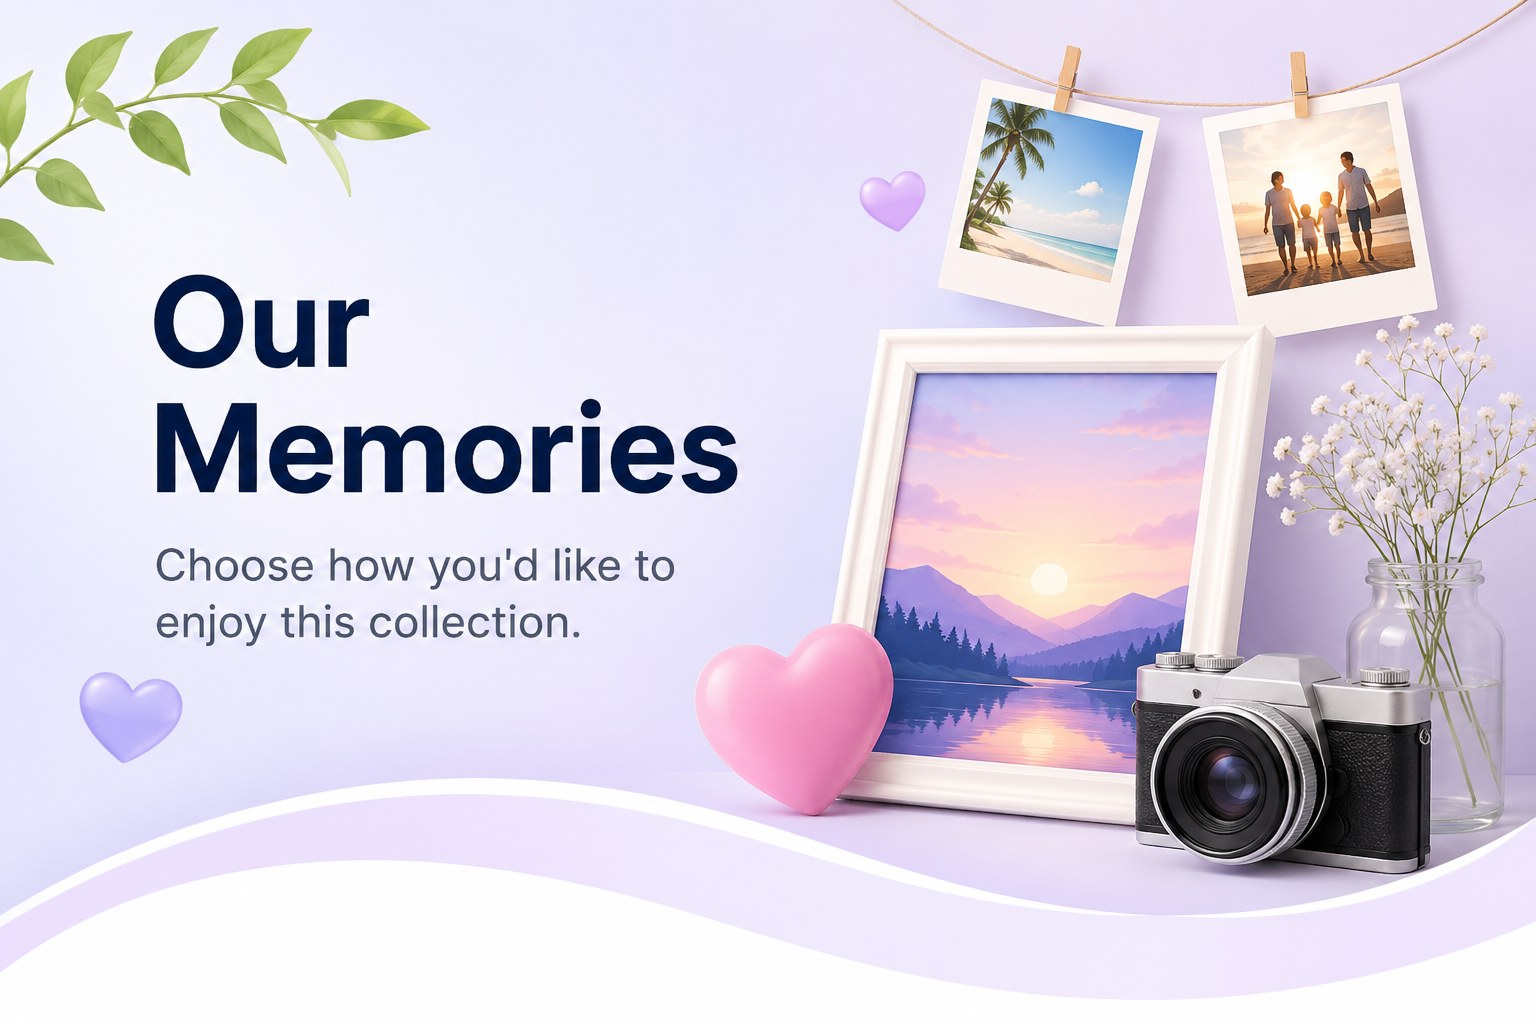
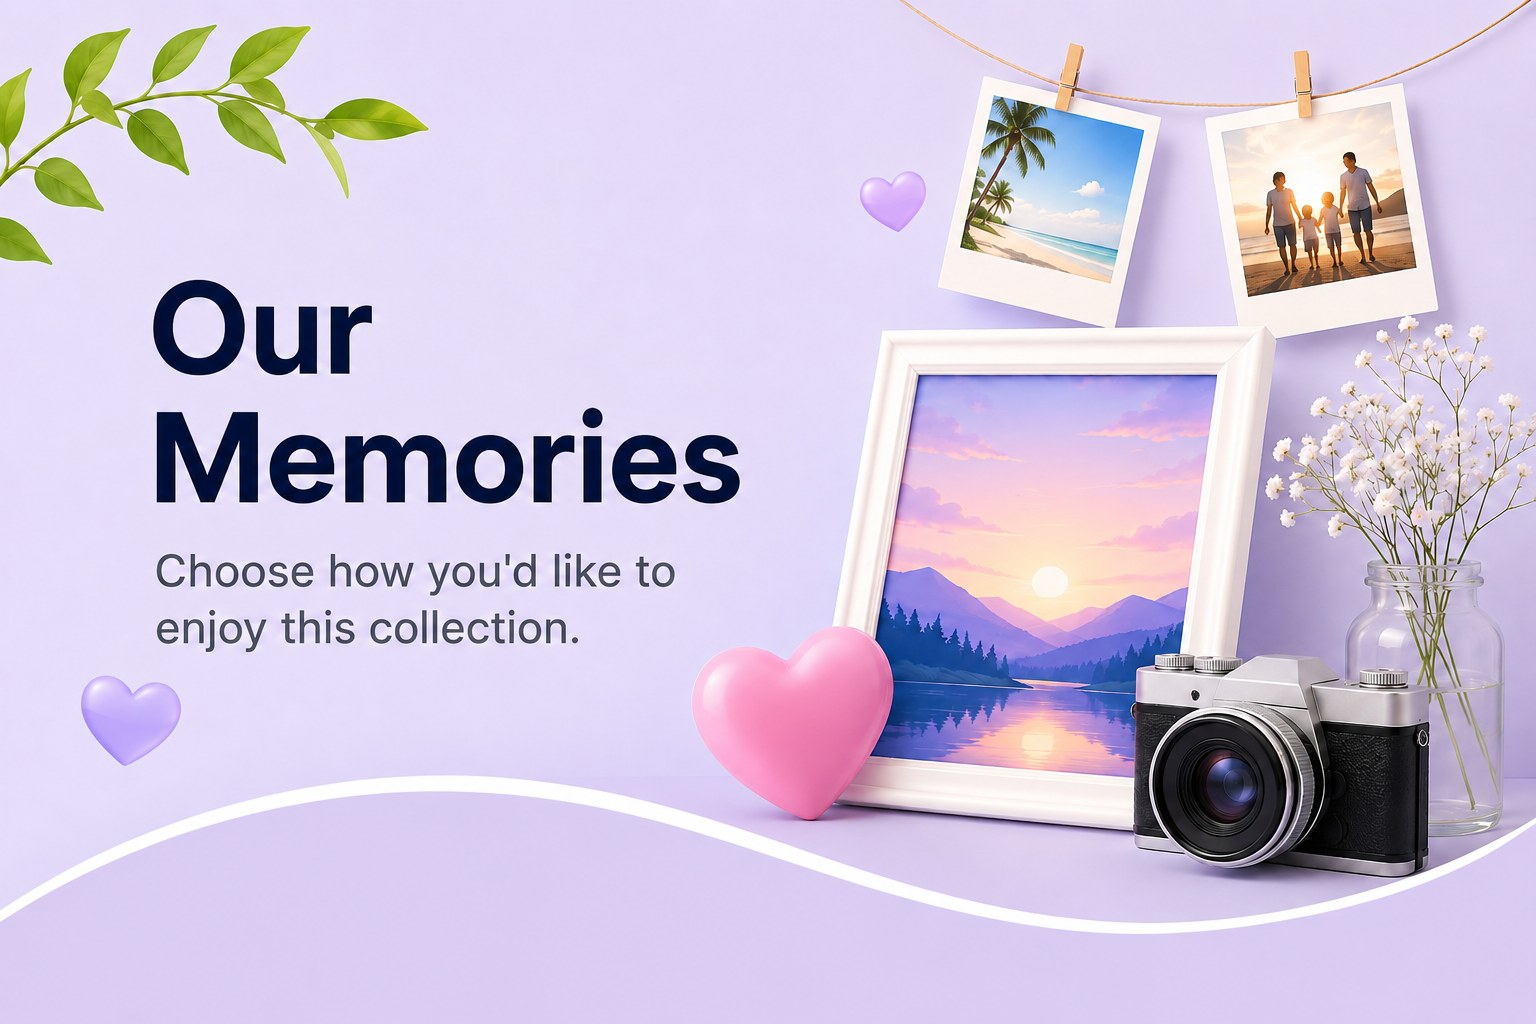
Replace Gallery Family Trips and Our Memories chooser hero photos with new beach suitcase / purple photo-frame images (converted PNG to JPG)

diff --git a/sw.js b/sw.js
@@ -1,4 +1,4 @@
-const CACHE_NAME = "family-memories-v65";
+const CACHE_NAME = "family-memories-v66";
 const APP_SHELL = [
   "./",
   "./index.html",
